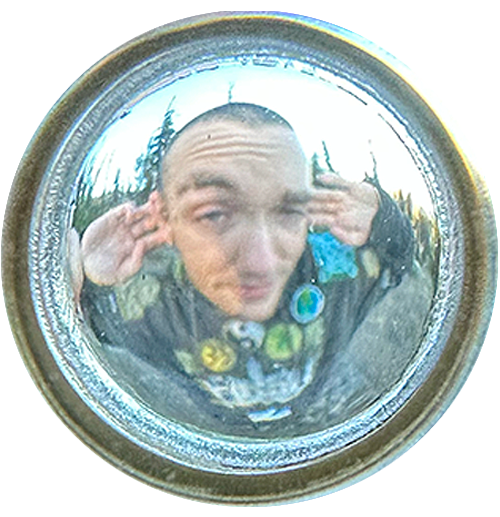
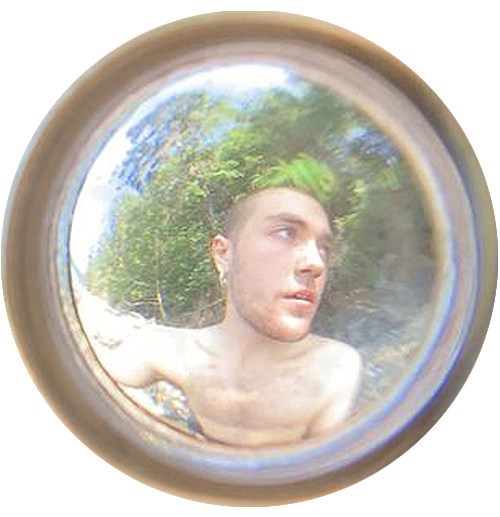
adding about page stuff

diff --git a/about.html b/about.html
@@ -27,7 +27,7 @@
     <ul class="about-grid">
       <li class="about-grid-image">
         <figure class="about-image">
-          <img src="assets/about/aboutfisheyes.png" width="1500" height="1500" alt="Photo of me" />
+          <img src="assets/about/andy-ukkop-poystila_about-fish-eye_01.png" width="1500" height="1500" alt="Photo of me" />
         </figure>
       </li>
 
@@ -38,7 +38,7 @@
               <li>Production Manager</li>
               <li>Editorial Contributor</li>
               <li>Game Jammer</li>
-              <li>Sourced Game Artist/li></Sourced>
+              <li>Game Designer</li>
               <li>Freelance Artist & Designer<li>
       </li>
 
@@ -51,18 +51,16 @@
 
         <h2>Hi!</h2>
 
-        <p> I am andy and I Lorem ipsum dolor sit amet, consectetur adipiscing elit, sed do eiusmod tempor incididunt ut labore et dolore magna aliqua. Ut enim ad minim veniam, quis nostrud exercitation ullamco laboris nisi ut aliquip ex ea commodo consequat. Duis aute irure dolor in reprehenderit in voluptate velit esse cillum dolore eu fugiat nulla pariatur. Excepteur sint occaecat cupidatat non proident, sunt in culpa qui officia deserunt mollit anim id est laborum.
+        <p> Andy Poystila is a Salt Spring Island sprouted man, currently residing in  Burnaby BC, Canada. and happens to be an Illustrator and UI/UX Designer.Most of his current work is within publishing at the school newspaper, the Capilano Courier, SAD Magazine,Game Jams with his team: Game Strike Team, and other game design projects.He currently aims to complete his visual novel: and finish some team projects. You can find his process work on his social media! If he is not found drawing in a cafe for 8-12 hours, then there is not really anywhere else you can find him. But one thing for sure is that  soon as his degree is over, his mobile phone will be disconnected and melted with thermite. He shall burn all of his identification, money, and papers. Then will commence his sail eastward, into the rising sun. </p>
 
-Lorem ipsum dolor sit amet, consectetur adipiscing elit, sed do eiusmod tempor incididunt ut labore et dolore magna aliqua. Ut enim ad minim veniam, quis nostrud exercitation ullamco laboris nisi ut aliquip ex ea commodo consequat. </p>
-
-              <h2>Find my resume here</h2>
+              <h2><a href="">Find my resume here</a></h2>
 
     </ul>
 
 
     <ul class="footer-global">
       
-        </ul>
+  
 
       </li>
 
@@ -77,6 +75,6 @@ Lorem ipsum dolor sit amet, consectetur adipiscing elit, sed do eiusmod tempor i
           document.getElementById("copyright-years").textContent += new Date().getFullYear();
         </script>
       </li>
-    </ul>
+</ul>
   </body>
 </html>
